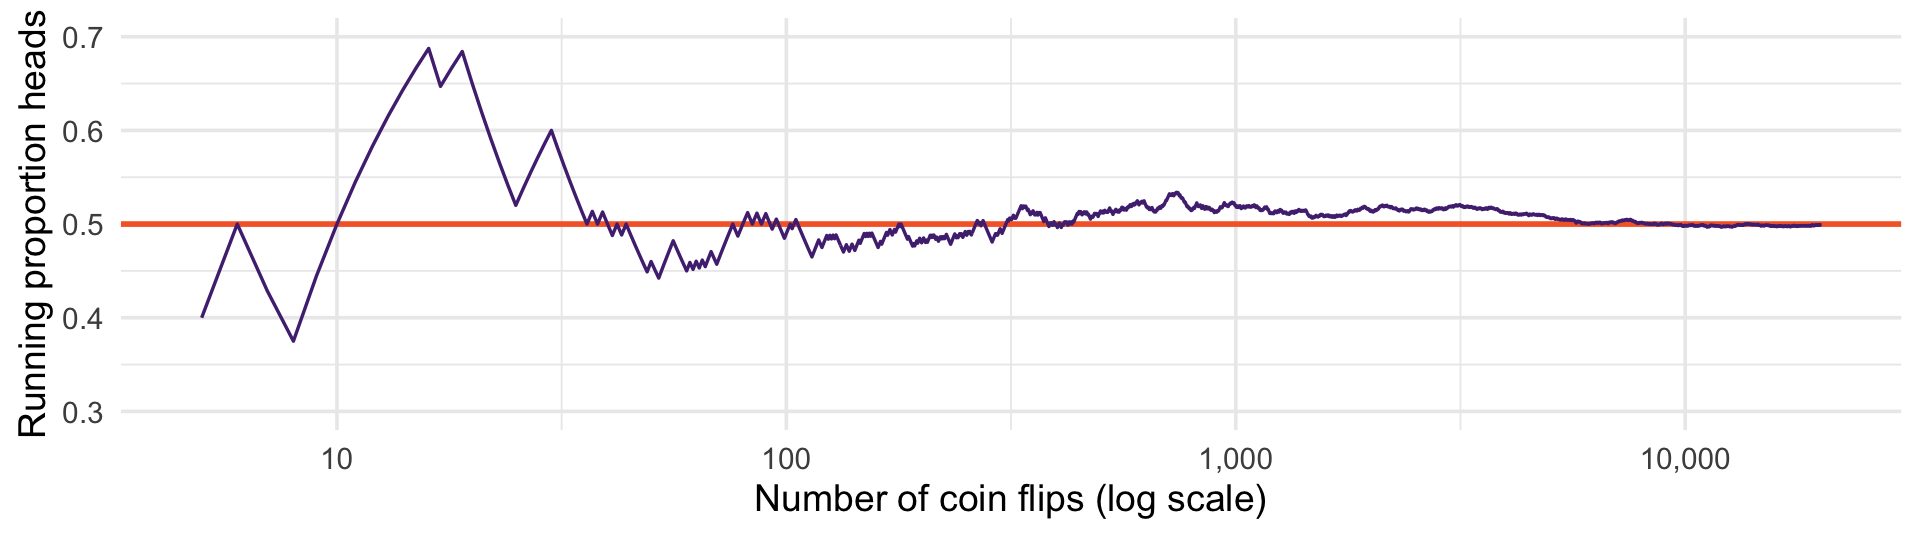
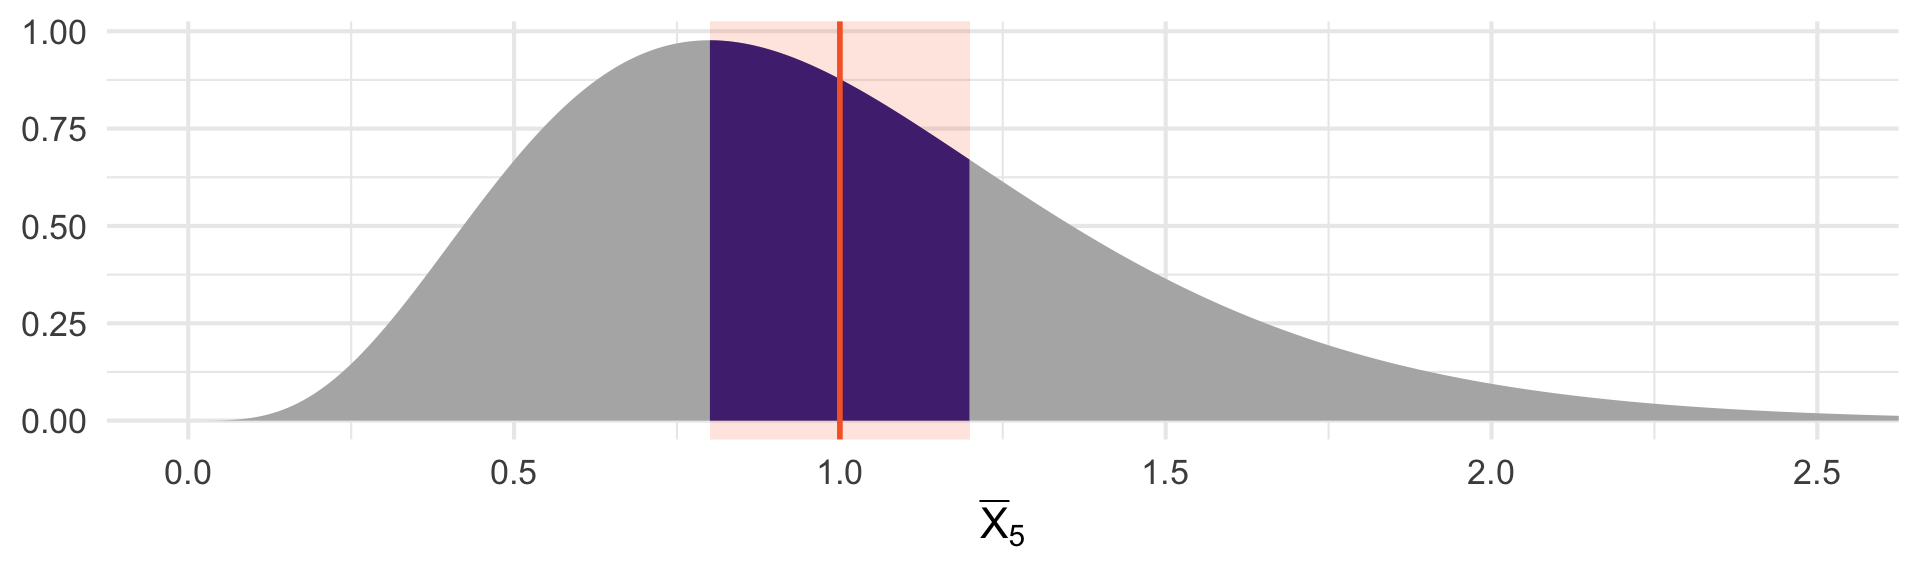
Publish POSC 8410 deck(s): 17_Asymptotics

diff --git a/posc-8410/17_Asymptotics.html b/posc-8410/17_Asymptotics.html
@@ -237,8 +237,72 @@ Will Horne
 <p>The probability of landing outside <strong>any</strong> interval around <span class="math inline">\(b\)</span> - however small - goes to zero.</p>
 </div>
 <div class="fragment">
-<p>An estimator <span class="math inline">\(\widehat{\theta}_n\)</span> is <strong>consistent</strong> for <span class="math inline">\(\theta\)</span> if <span class="math inline">\(\widehat{\theta}_n \overset{p}{\to} \theta\)</span>: its sampling distribution collapses onto <span class="math inline">\(\theta\)</span>. To prove it we need a way to bound <span class="math inline">\(P(|\widehat{\theta}_n - \theta| &gt; \epsilon)\)</span>, and one inequality does it.</p>
+<p>An estimator <span class="math inline">\(\widehat{\theta}_n\)</span> is <strong>consistent</strong> for <span class="math inline">\(\theta\)</span> if <span class="math inline">\(\widehat{\theta}_n \overset{p}{\to} \theta\)</span>: its sampling distribution collapses onto <span class="math inline">\(\theta\)</span>.</p>
 </div>
+</section>
+<section id="seeing-convergence-in-probability-n-5" class="slide level2">
+<h2>Seeing Convergence in Probability: <span class="math inline">\(n = 5\)</span></h2>
+
+<img data-src="17_Asymptotics_files/figure-revealjs/unnamed-chunk-4-1.png" width="960" class="r-stretch"><p><span class="math inline">\(\bar{X}_5\)</span> from a skewed population with <span class="math inline">\(\mu = 1\)</span>. Band: <span class="math inline">\(\mu \pm 0.2\)</span>.</p>
+<div class="fragment">
+<p>Grey area: <span class="math inline">\(P(|\bar{X}_5 - \mu| &gt; 0.2) =\)</span> 0.656</p>
+</div>
+</section>
+<section id="seeing-convergence-in-probability-n-30" class="slide level2">
+<h2>Seeing Convergence in Probability: <span class="math inline">\(n = 30\)</span></h2>
+
+<img data-src="17_Asymptotics_files/figure-revealjs/unnamed-chunk-5-1.png" width="960" class="r-stretch"><p><span class="math inline">\(P(|\bar{X}_{30} - \mu| &gt; 0.2) =\)</span> 0.270</p>
+</section>
+<section id="seeing-convergence-in-probability-n-100" class="slide level2">
+<h2>Seeing Convergence in Probability: <span class="math inline">\(n = 100\)</span></h2>
+
+<img data-src="17_Asymptotics_files/figure-revealjs/unnamed-chunk-6-1.png" width="960" class="r-stretch"><p><span class="math inline">\(P(|\bar{X}_{100} - \mu| &gt; 0.2) =\)</span> 0.045</p>
+</section>
+<section id="seeing-convergence-in-probability-n-1000" class="slide level2">
+<h2>Seeing Convergence in Probability: <span class="math inline">\(n = 1000\)</span></h2>
+
+<img data-src="17_Asymptotics_files/figure-revealjs/unnamed-chunk-7-1.png" width="960" class="r-stretch"><p><span class="math inline">\(P(|\bar{X}_{1000} - \mu| &gt; 0.2) =\)</span> 0.000</p>
+<div class="fragment">
+<p>The grey area goes to zero: the sequence picture, with probability in place of points.</p>
+</div>
+</section>
+<section id="the-same-collapse-as-cdfs" class="slide level2">
+<h2>The Same Collapse, as CDFs</h2>
+
+<img data-src="17_Asymptotics_files/figure-revealjs/unnamed-chunk-8-1.png" width="960" class="r-stretch"><p>As <span class="math inline">\(n\)</span> grows, the CDF of <span class="math inline">\(\bar{X}_n\)</span> steepens toward a <strong>step at</strong> <span class="math inline">\(\mu\)</span>: the CDF of a variable that always equals 1. Remember this picture. CDFs are how we will define the next mode of convergence.</p>
+</section>
+<section id="what-inconsistency-looks-like-n-5" class="slide level2">
+<h2>What Inconsistency Looks Like: <span class="math inline">\(n = 5\)</span></h2>
+<p><strong>Understanding check:</strong> the first observation, <span class="math inline">\(X_1\)</span>, is unbiased for <span class="math inline">\(\mu\)</span>. Is it consistent?</p>
+<div class="fragment">
+<div class="fragment">
+<div class="cell">
+<div class="cell-output-display">
+<div>
+<figure>
+<p><img data-src="17_Asymptotics_files/figure-revealjs/unnamed-chunk-9-1.png" width="960"></p>
+</figure>
+</div>
+</div>
+</div>
+<p><span class="math inline">\(P(|X_1 - \mu| &gt; 0.2) =\)</span> 0.852</p>
+</div>
+</div>
+</section>
+<section id="what-inconsistency-looks-like-n-30" class="slide level2">
+<h2>What Inconsistency Looks Like: <span class="math inline">\(n = 30\)</span></h2>
+
+<img data-src="17_Asymptotics_files/figure-revealjs/unnamed-chunk-10-1.png" width="960" class="r-stretch"><p><span class="math inline">\(P(|X_1 - \mu| &gt; 0.2) =\)</span> 0.852, the same as at <span class="math inline">\(n = 5\)</span></p>
+</section>
+<section id="what-inconsistency-looks-like-n-100" class="slide level2">
+<h2>What Inconsistency Looks Like: <span class="math inline">\(n = 100\)</span></h2>
+
+<img data-src="17_Asymptotics_files/figure-revealjs/unnamed-chunk-11-1.png" width="960" class="r-stretch"><p><span class="math inline">\(P(|X_1 - \mu| &gt; 0.2) =\)</span> 0.852, still</p>
+</section>
+<section id="what-inconsistency-looks-like-n-1000" class="slide level2">
+<h2>What Inconsistency Looks Like: <span class="math inline">\(n = 1000\)</span></h2>
+
+<img data-src="17_Asymptotics_files/figure-revealjs/unnamed-chunk-12-1.png" width="960" class="r-stretch"><p>Still 0.852. Nothing moves: unbiased, but <strong>not consistent</strong>.</p>
 </section></section>
 <section>
 <section id="the-law-of-large-numbers" class="title-slide slide level1 center">
@@ -247,6 +311,7 @@ Will Horne
 </section>
 <section id="chebyshevs-inequality" class="slide level2">
 <h2>Chebyshev’s Inequality</h2>
+<p>To prove that the sample mean collapses for <em>every</em> population, we need a way to bound <span class="math inline">\(P(|\widehat{\theta}_n - \theta| &gt; \epsilon)\)</span>, and one inequality does it.</p>
 <div class="callout callout-note callout-titled callout-style-default">
 <div class="callout-body">
 <div class="callout-title">
@@ -339,7 +404,7 @@ Will Horne
 <section id="seeing-it" class="slide level2">
 <h2>Seeing It</h2>
 
-<img data-src="17_Asymptotics_files/figure-revealjs/unnamed-chunk-4-1.png" width="960" class="r-stretch"><p>The theorem says this must happen. At 20,000 flips: <strong>0.499</strong>.</p>
+<img data-src="17_Asymptotics_files/figure-revealjs/unnamed-chunk-13-1.png" width="960" class="r-stretch"><p>The theorem says this must happen. At 20,000 flips: <strong>0.499</strong>.</p>
 </section>
 <section id="what-the-lln-does-not-say" class="slide level2">
 <h2>What the LLN Does Not Say</h2>
@@ -432,10 +497,36 @@ Will Horne
 <p>This is why the CLT applies to skewed, bimodal, and discrete populations alike. The population’s peculiarities do not survive the averaging.</p>
 </div>
 </section>
-<section id="seeing-it-1" class="slide level2">
-<h2>Seeing It</h2>
+<section id="seeing-the-clt-n-1" class="slide level2">
+<h2>Seeing the CLT: <span class="math inline">\(n = 1\)</span></h2>
 
-<img data-src="17_Asymptotics_files/figure-revealjs/unnamed-chunk-5-1.png" width="960" class="r-stretch"><p>An exponential population (skewness 2), rescaled by <span class="math inline">\(\sqrt{n}\)</span>. Orange is <span class="math inline">\(N(0,1)\)</span>.</p>
+<img data-src="17_Asymptotics_files/figure-revealjs/unnamed-chunk-14-1.png" width="960" class="r-stretch"><p>4,000 draws of <span class="math inline">\(\sqrt{n}\,(\bar{X}_n - \mu)\)</span> from an exponential population. Orange is <span class="math inline">\(N(0,1)\)</span>.</p>
+<div class="fragment">
+<p>At <span class="math inline">\(n = 1\)</span> this is just the population, shifted: skewness 2.00.</p>
+</div>
+</section>
+<section id="seeing-the-clt-n-5" class="slide level2">
+<h2>Seeing the CLT: <span class="math inline">\(n = 5\)</span></h2>
+
+<img data-src="17_Asymptotics_files/figure-revealjs/unnamed-chunk-15-1.png" width="960" class="r-stretch"><p>Skewness 0.93</p>
+</section>
+<section id="seeing-the-clt-n-30" class="slide level2">
+<h2>Seeing the CLT: <span class="math inline">\(n = 30\)</span></h2>
+
+<img data-src="17_Asymptotics_files/figure-revealjs/unnamed-chunk-16-1.png" width="960" class="r-stretch"><p>Skewness 0.32</p>
+</section>
+<section id="seeing-the-clt-n-100" class="slide level2">
+<h2>Seeing the CLT: <span class="math inline">\(n = 100\)</span></h2>
+
+<img data-src="17_Asymptotics_files/figure-revealjs/unnamed-chunk-17-1.png" width="960" class="r-stretch"><p>Skewness 0.25, down from 2: the population’s shape has almost washed out.</p>
+</section>
+<section id="the-same-convergence-as-cdfs" class="slide level2">
+<h2>The Same Convergence, as CDFs</h2>
+
+<img data-src="17_Asymptotics_files/figure-revealjs/unnamed-chunk-18-1.png" width="960" class="r-stretch"><p>With <span class="math inline">\(Z_n = \sqrt{n}\,(\bar{X}_n - \mu)\)</span>, the definition asks that <span class="math inline">\(P(Z_n \leq z) \to \Phi(z)\)</span> at every <span class="math inline">\(z\)</span>.</p>
+<div class="fragment">
+<p>Largest gap: 0.158 at <span class="math inline">\(n = 1\)</span>, 0.060 at 5, 0.024 at 30, 0.013 at 100. It shrinks like <span class="math inline">\(1/\sqrt{n}\)</span>.</p>
+</div>
 </section></section>
 <section>
 <section id="using-it-in-practice" class="title-slide slide level1 center">
